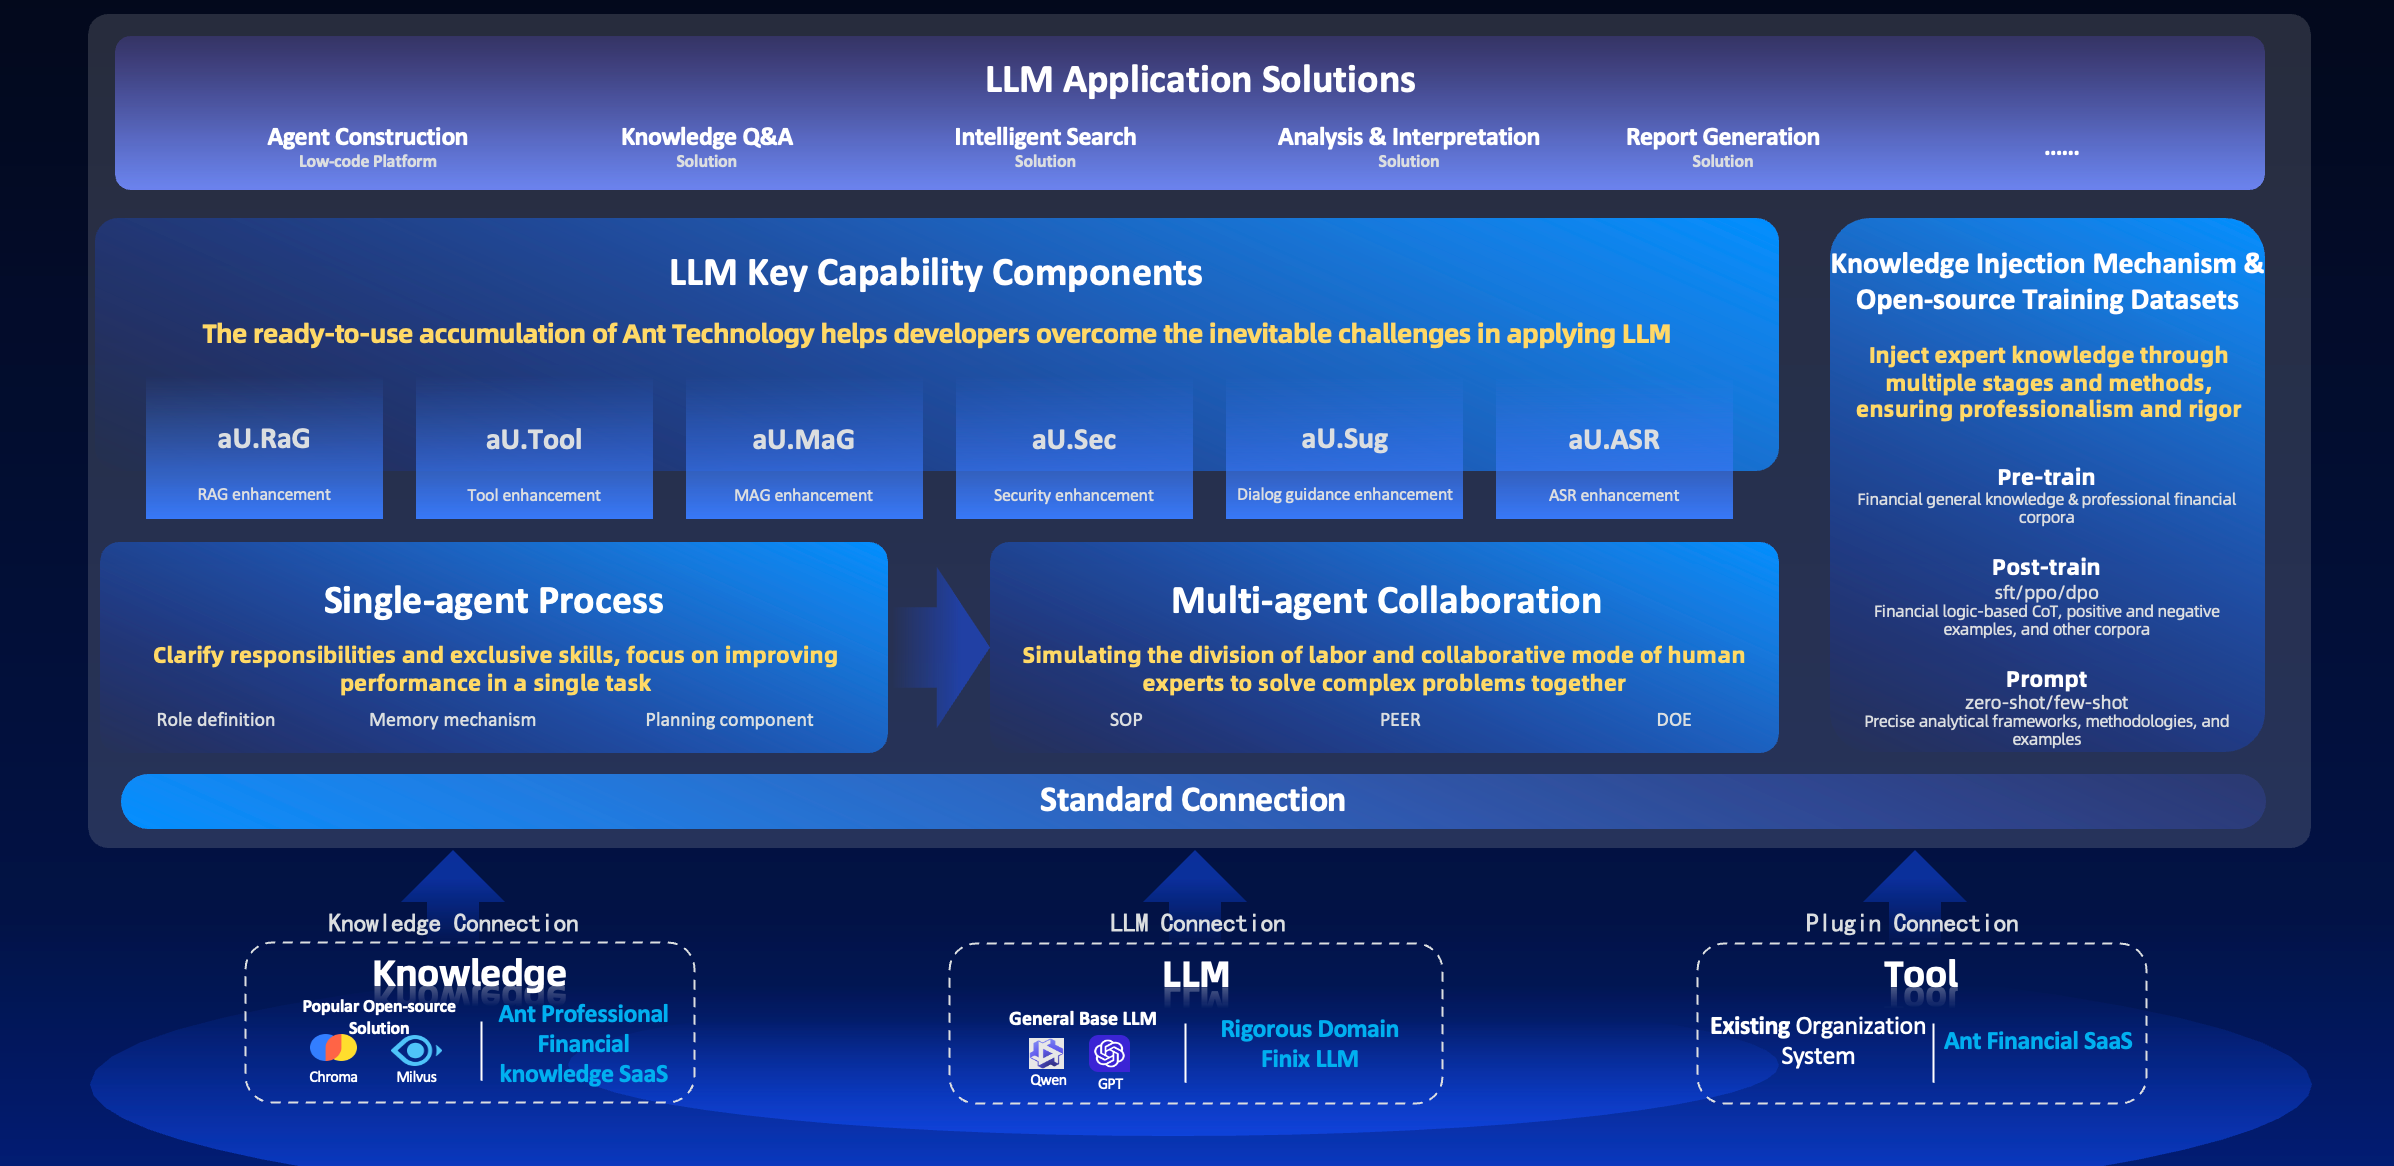
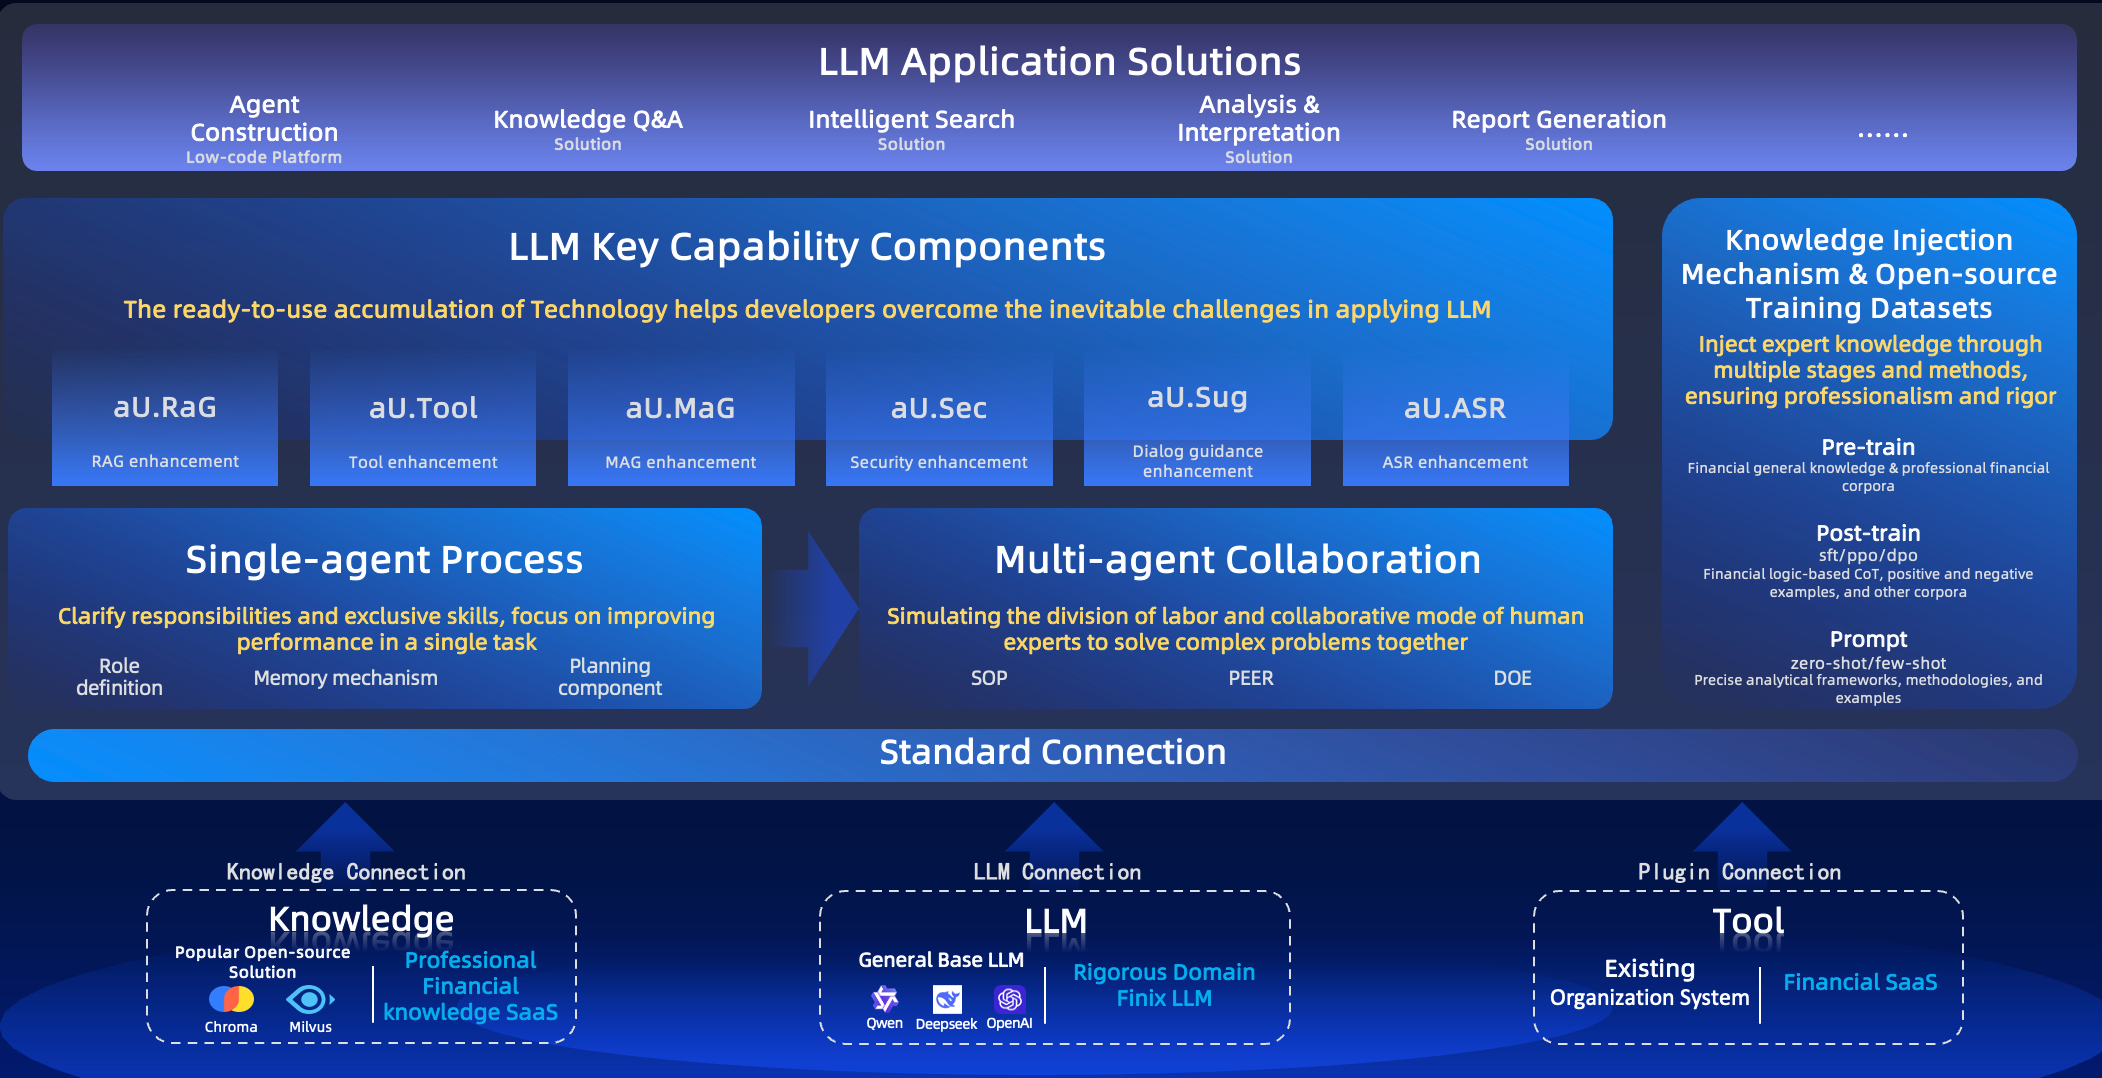
docs: Update agentUniverse structure diagram

diff --git a/docs/guidebook/en/Concepts/Why_Use_agentUniverse.md b/docs/guidebook/en/Concepts/Why_Use_agentUniverse.md
@@ -4,6 +4,9 @@ agentUniverse is a multi-agent framework specifically optimized for tackling com
 
 
 **Architecture Diagram**
+
+![au_architectural_diagram](../../_picture/agentuniverse_structure_en.png)
+
 agentUniverse boasts a range of basic capabilities, including single-agent functionalities, orchestration components for multi-agent collaboration modes, and tools and mechanisms for knowledge injection. Through the framework's standardized interfaces, users can seamlessly integrate their own models, knowledge bases, and tools, enabling different agents to leverage these resources effectively.
 
 With these capabilities, you can build your own intelligent applications tailored to your needs. Moreover, the framework further provides key capability components and application solutions specifically designed for large model applications. These components address common challenges in large model applications, such as RAG (Retrieve-and-Generate), tool invocation, and security rigor, helping developers overcome inevitable difficulties. The application solutions, on the other hand, offer end-to-end solutions for typical scenarios of large model applications, such as knowledge Q&A, intelligent search, and analysis and interpretation, thereby enhancing application development efficiency.

diff --git a/docs/guidebook/zh/设计理念/为什么选择agentUniverse.md b/docs/guidebook/zh/设计理念/为什么选择agentUniverse.md
@@ -2,7 +2,7 @@
 agentUniverse是一个多智能体框架，面向实际业务场景中的复杂任务优化设计。agentUniverse不仅提供搭建单一智能体的全部关键组件，还提供了多智能体之间协作模式的编排组件（类似于Pattern Factory），开发者可以通过自定义协同模式，让智能体各司其职，更好的解决自己领域的专业问题。同时，agentUniverse提供专家经验的注入机制，帮助开发者和企业轻松构建具备专业KnowHow的智能应用。
 
 ## 架构大图
-![au_architectural_diagram](../../_picture/au_architectural_diagram.png)
+![au_architectural_diagram](../../_picture/agentuniverse_structure.png)
 
 agentUniverse基础能力包含单Agent能力，提供多智能体协同模式编排组件，同时给开发者提供知识注入的手段与机制。
 
